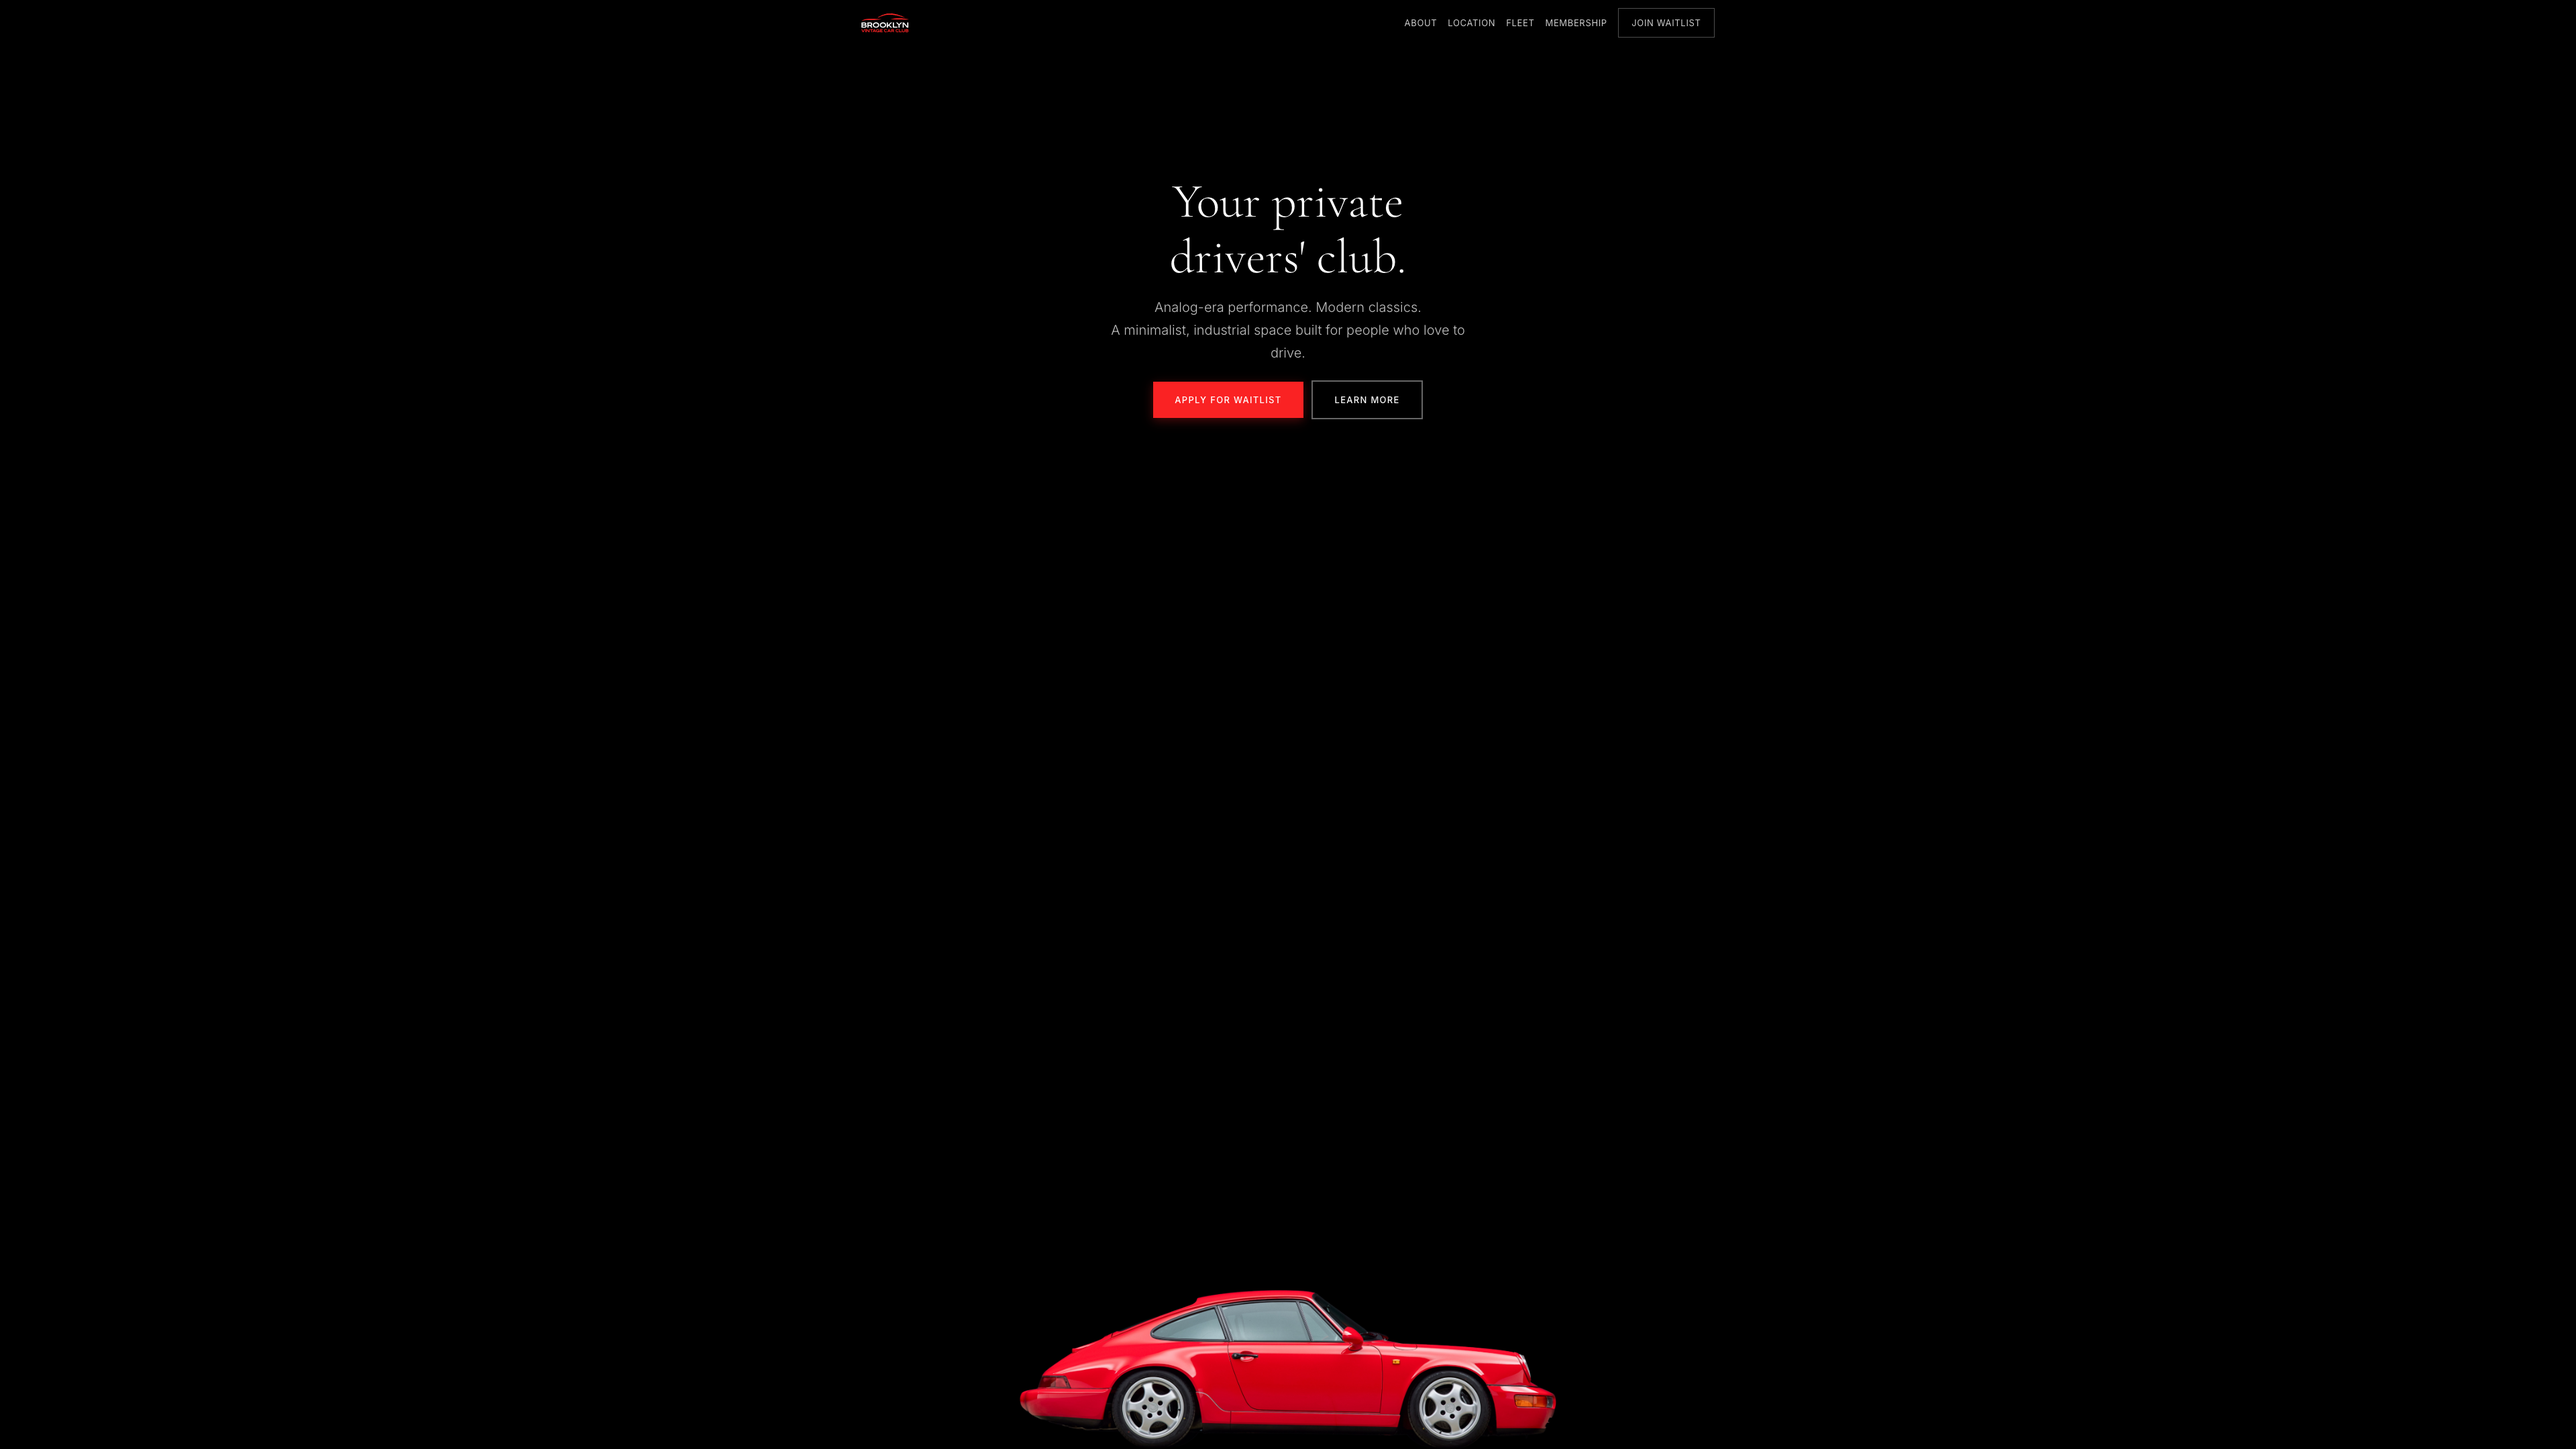
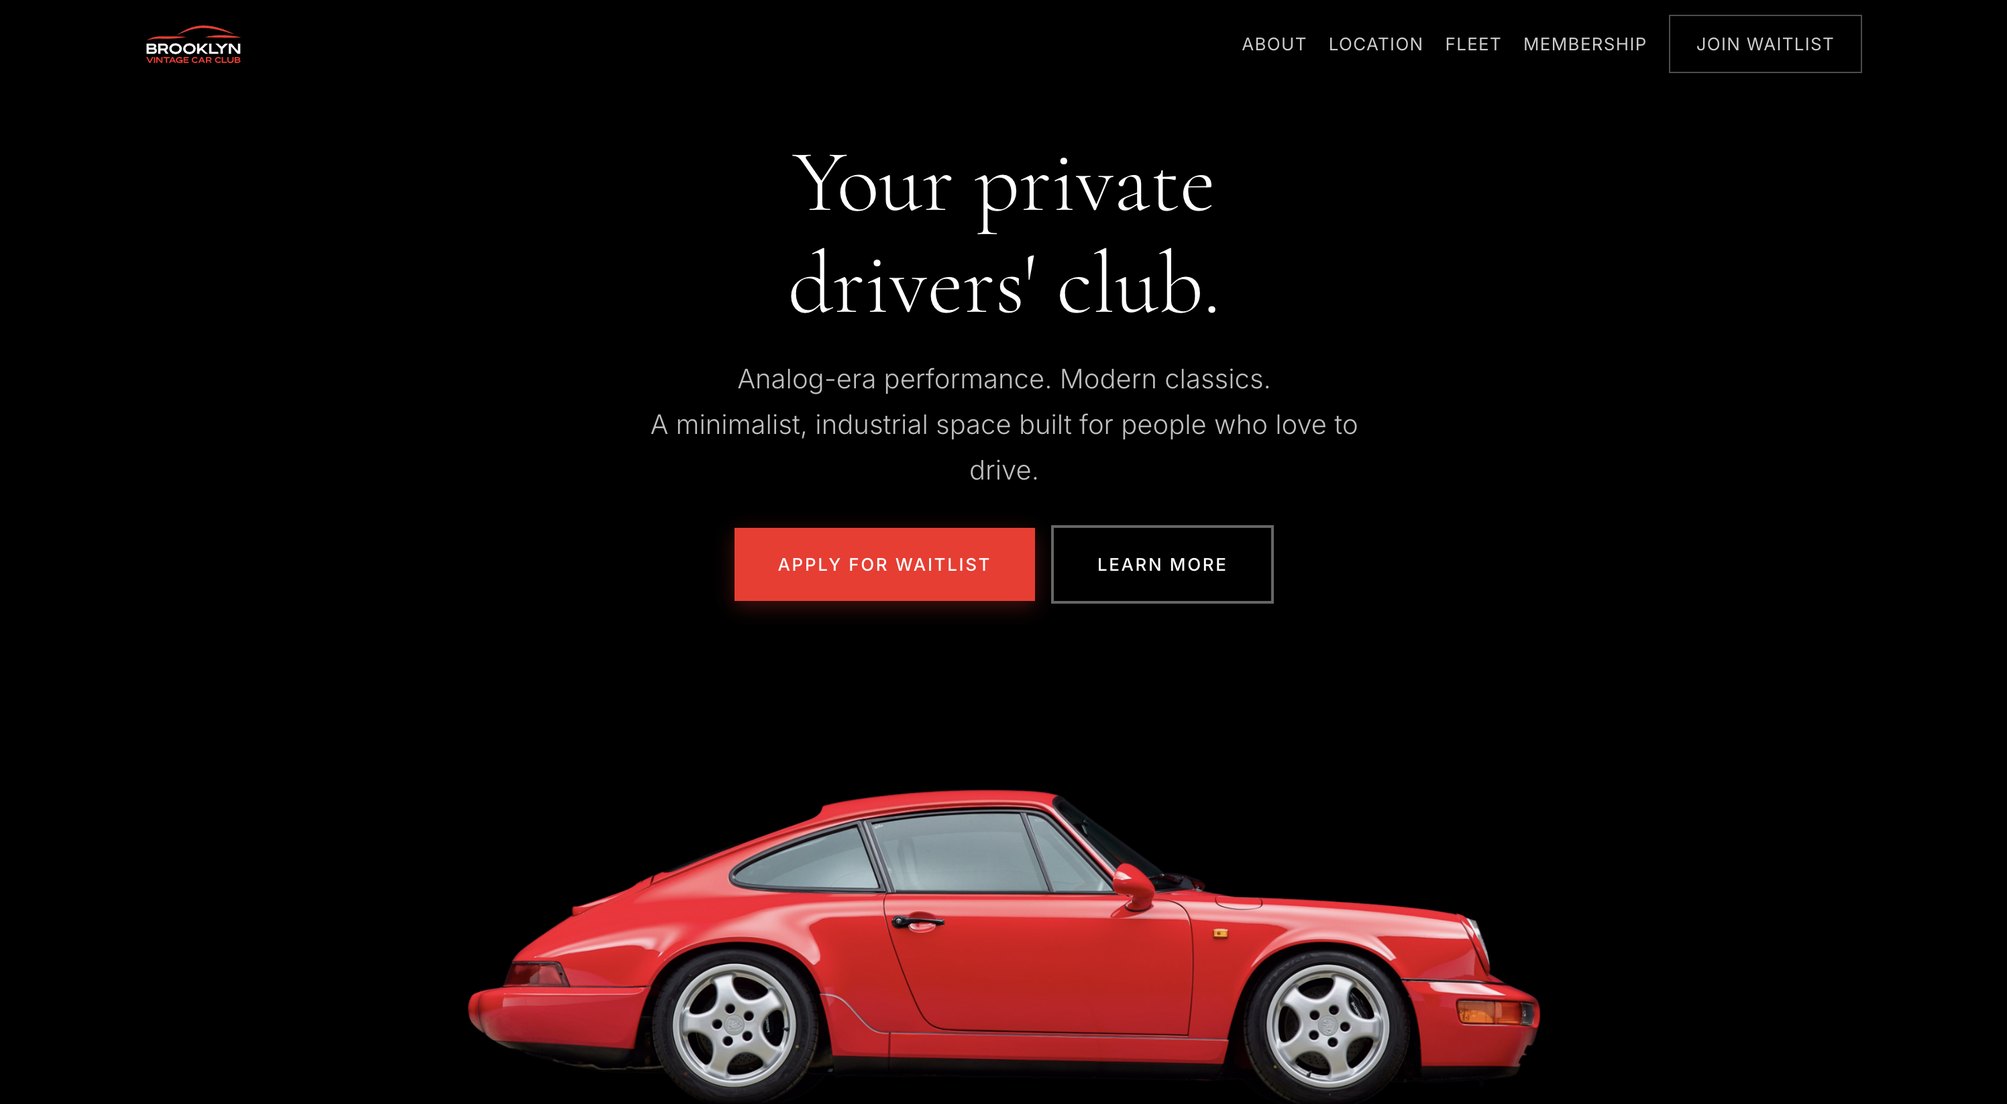
Update Brooklyn Vintage Car Club screenshot and improve image positioning

diff --git a/capture-brooklyn.js b/capture-brooklyn.js
@@ -1,0 +1,31 @@
+const puppeteer = require('puppeteer');
+
+(async () => {
+  const browser = await puppeteer.launch({ headless: 'new' });
+  const page = await browser.newPage();
+  
+  await page.setViewport({ 
+    width: 1440, 
+    height: 900, 
+    deviceScaleFactor: 2 
+  });
+  
+  await page.goto('https://brooklynvintagecarclub.com/', { 
+    waitUntil: 'networkidle2', 
+    timeout: 30000 
+  });
+  
+  await new Promise(resolve => setTimeout(resolve, 5000));
+  
+  // Scroll down to show the red Porsche
+  await page.evaluate(() => window.scrollTo(0, 400));
+  await new Promise(resolve => setTimeout(resolve, 1000));
+  
+  await page.screenshot({ 
+    path: 'public/projects/90s-car-club.png', 
+    type: 'png' 
+  });
+  
+  await browser.close();
+  console.log('Screenshot captured with red Porsche at 2880x1800');
+})();

diff --git a/components/ProjectsSectionNew.tsx b/components/ProjectsSectionNew.tsx
@@ -40,7 +40,7 @@ function ProjectCard({ project, index }: { project: typeof projects[0]; index: n
               src={project.image}
               alt={`${project.title} screenshot`}
               fill
-              className="object-cover object-top transition-transform duration-700 group-hover:scale-105"
+              className="object-cover object-left-top transition-transform duration-700 group-hover:scale-105"
               onError={() => setImageError(true)}
               sizes="(max-width: 768px) 100vw, 50vw"
               loading="lazy"
